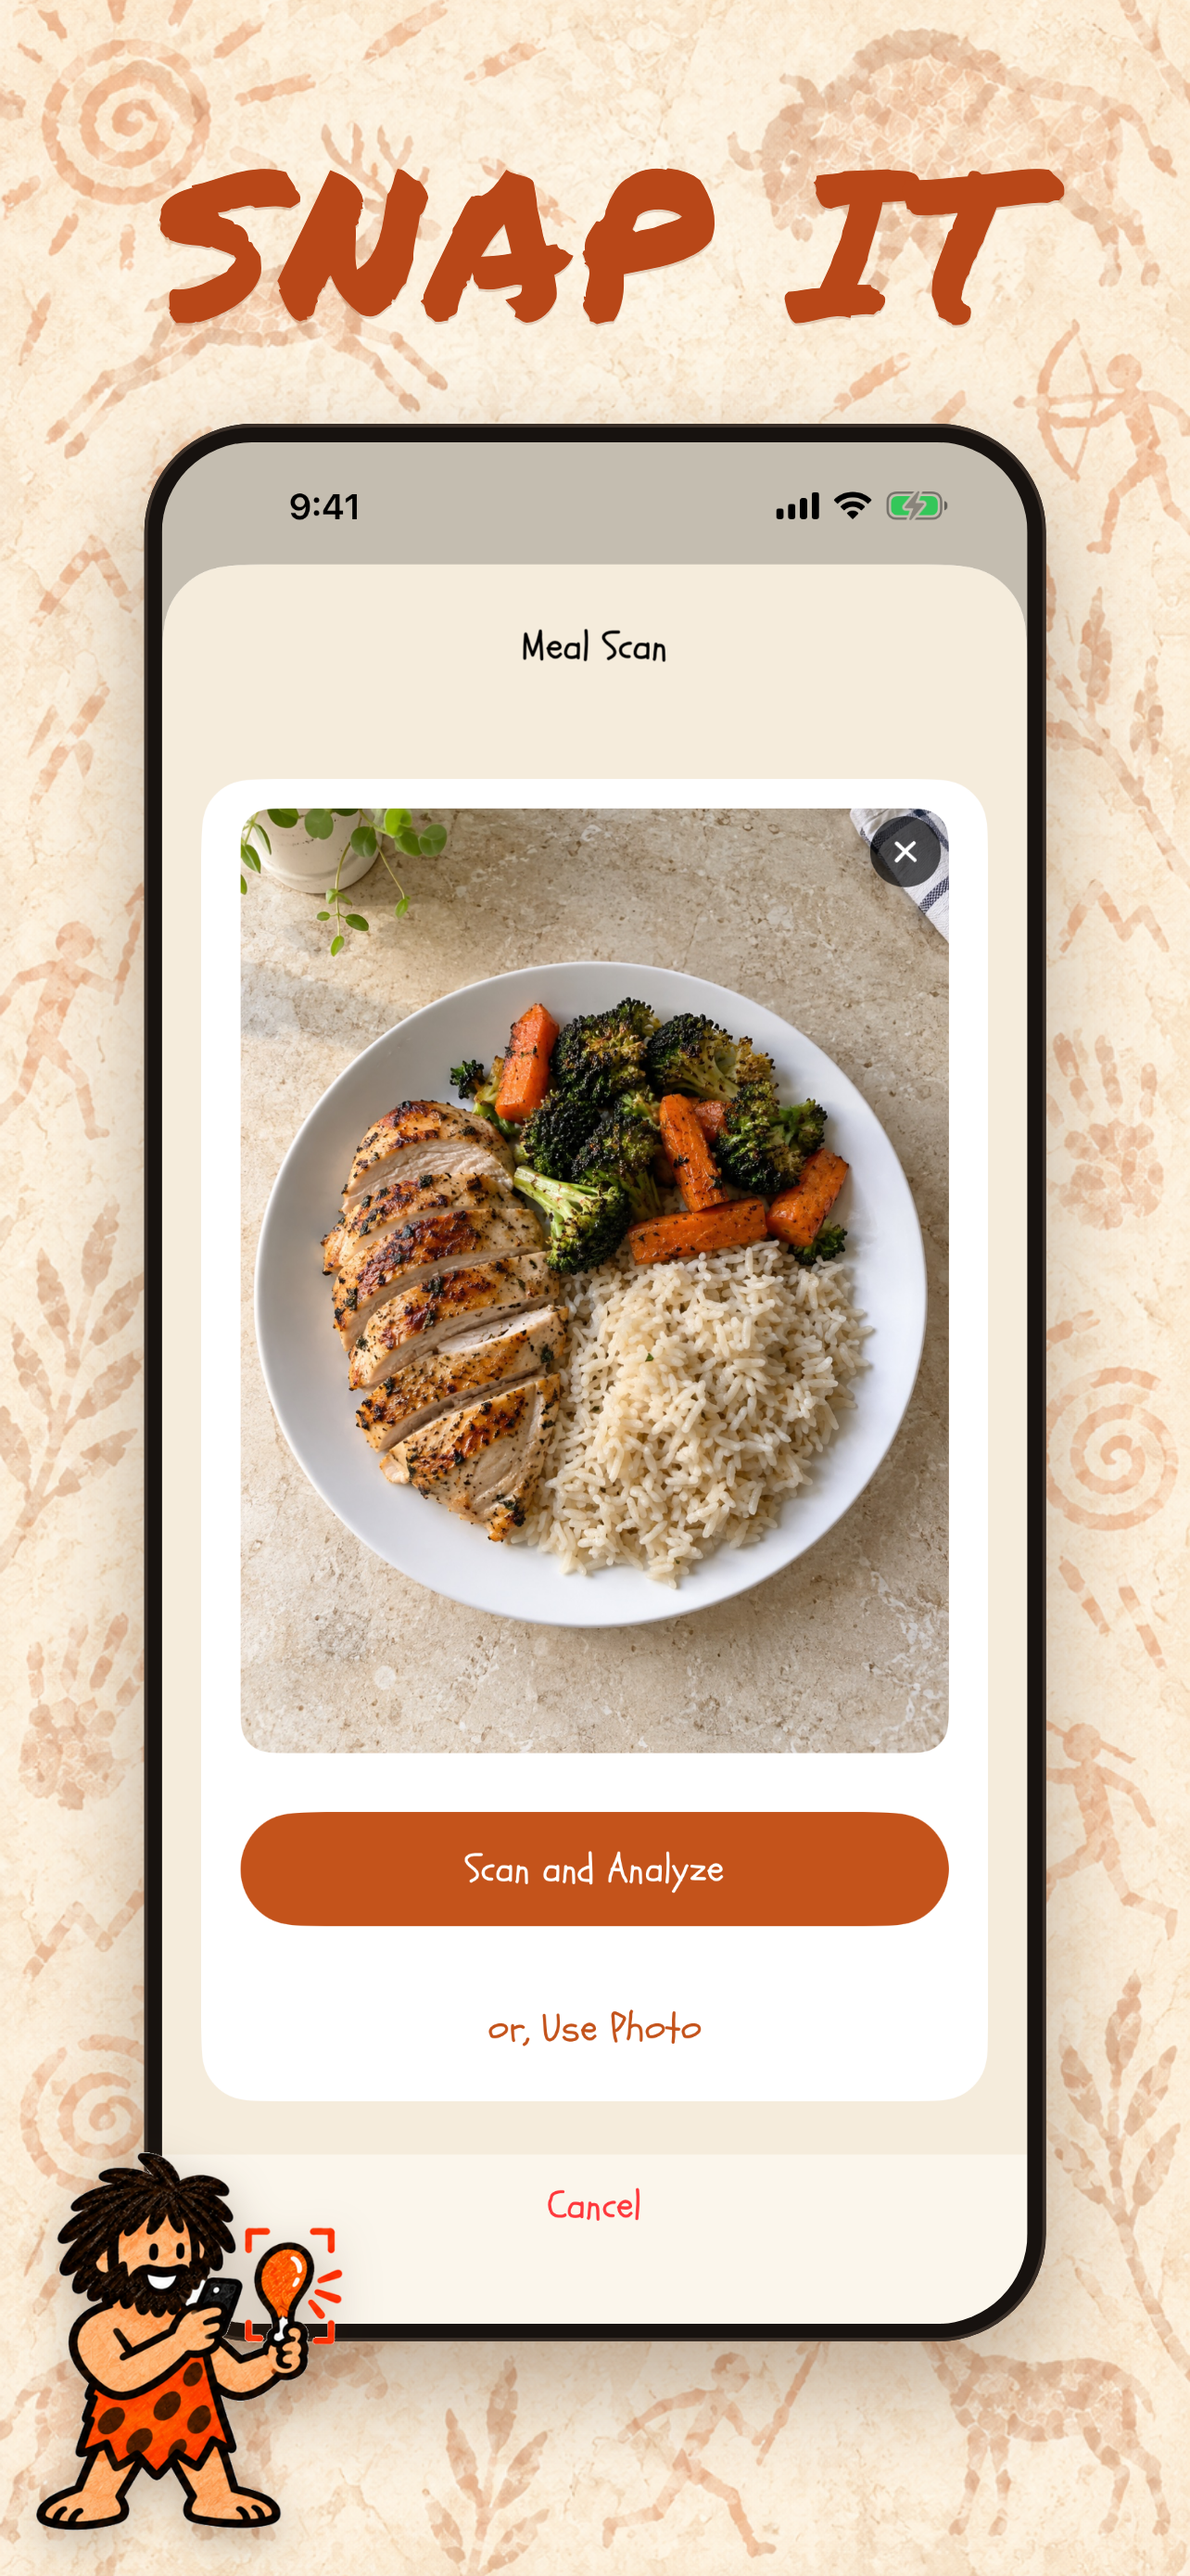
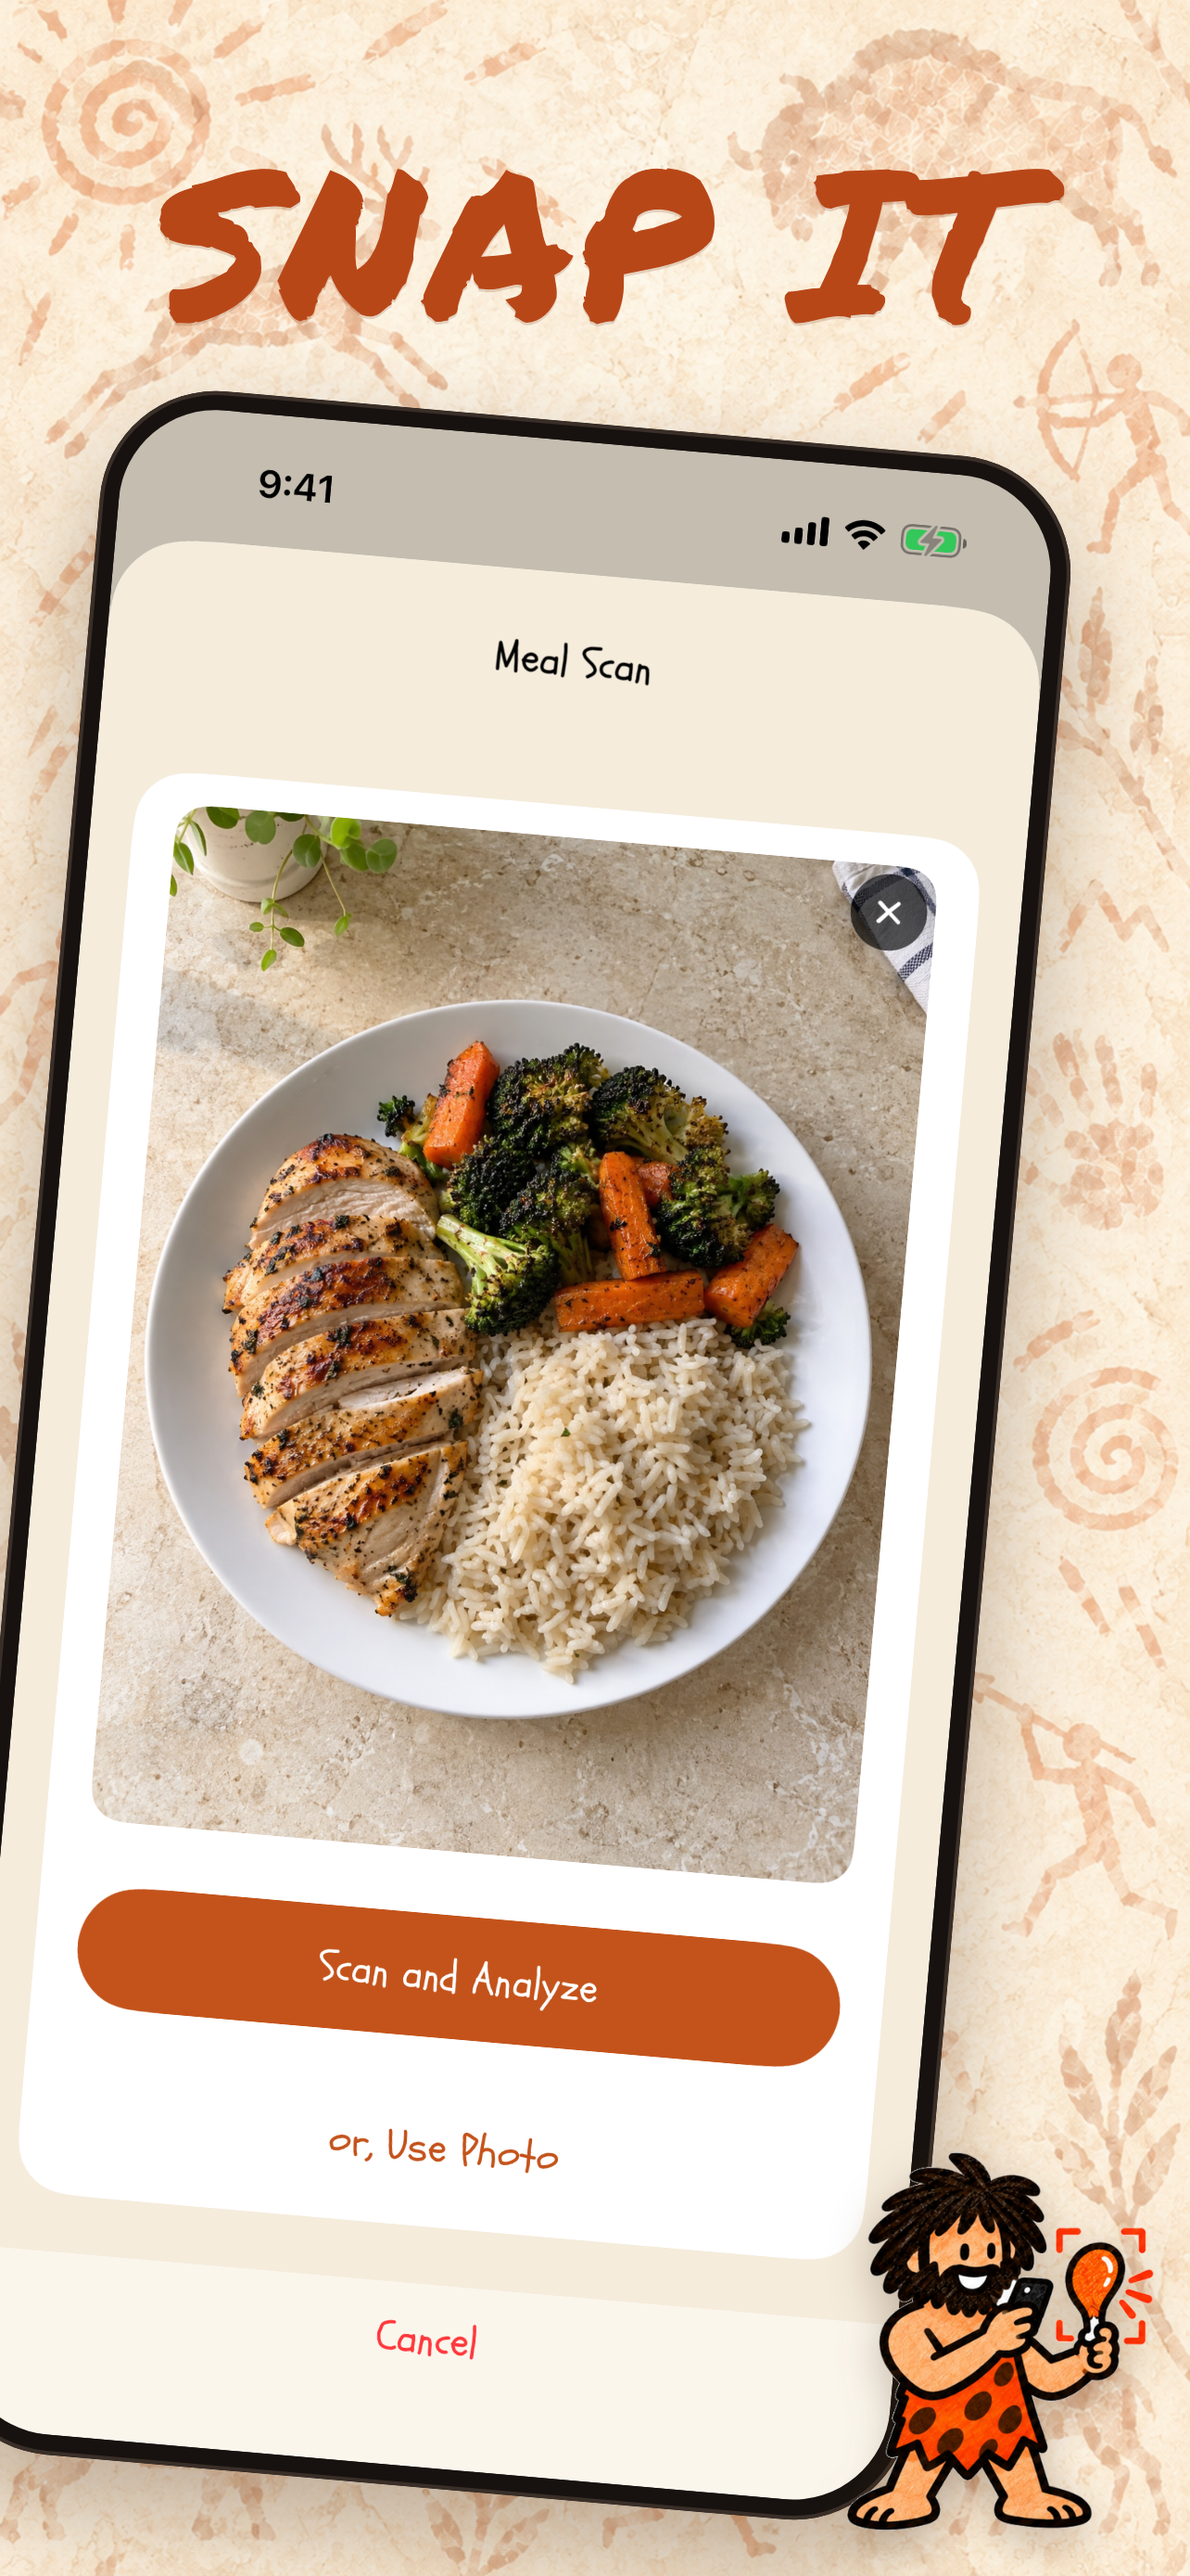
Reorder store screenshots and add a Lose weight, not time opener
New order: Lose weight not time (welcome), Snap, Say, Track, Find, Lose it
(was See it), Team up. Phones now tilt or zoom per slide, and a two-line
headline pushes its phone down.

diff --git a/Marketing/2026-10-growth-playbook/assets/app-store-screenshots/cave/render.py b/Marketing/2026-10-growth-playbook/assets/app-store-screenshots/cave/render.py
@@ -1,6 +1,6 @@
 """Render the cave-wall store screenshots for the App Store (iPhone 6.9" and 6.5") and Google Play (phone).
 
-Every slide uses the same background, headline spot, phone size and mascot spot, so the set reads as one.
+Every slide uses the same background, headline and phone size, so the set reads as one; phones tilt or zoom per slide for variety.
 Run from anywhere: python3 render.py [ios|android]   (both by default)
 Needs Google Chrome. Raw captures: ../raw-1.2/ (iOS) and CaveCalsAndroid/docs/play-store/raw-2026-10/ (Android).
 """
@@ -20,38 +20,45 @@ PLATFORMS = {
                     raw=pathlib.Path("/Users/phil/Documents/GIT/CaveCalsAndroid/docs/play-store/raw-2026-10")),
 }
 
-# (file, headline, raw capture, mascot)
+# (file, headline, raw capture, mascot, phone tilt in degrees, phone zoom)
+# A clockwise tilt swings the phone's bottom left, so its mascot moves to the right.
 SLIDES = [
-    ("01-track-it", "Track it", "home.png", "zog/zog-thumbs-up.png"),
-    ("02-snap-it", "Snap it", "meal-scan.png", "zog/zog-scan-food.png"),
-    ("03-say-it", "Say it", "voice-log.png", "zena/zena-voice-log.png"),
-    ("04-find-it", "Find it", "search.png", "zena/zena-phone-heart.png"),
-    ("05-see-it", "See it", "progress.png", "zog/zog-streak-torch.png"),
-    ("06-team-up", "Team up", "clans.png", "together/together-high-five.png"),
+    ("01-lose-weight", "Lose weight\nnot time", "welcome.png", "zena/zena-salad.png", -4, 1),
+    ("02-snap-it", "Snap it", "meal-scan.png", "zog/zog-scan-food.png", 5, 1.08),
+    ("03-say-it", "Say it", "voice-log.png", "zena/zena-voice-log.png", -3, 1),
+    ("04-track-it", "Track it", "home.png", "zog/zog-thumbs-up.png", 3, 1),
+    ("05-find-it", "Find it", "search.png", "zena/zena-phone-heart.png", 0, 1.16),
+    ("06-lose-it", "Lose it", "progress.png", "zog/zog-streak-torch.png", -4, 1),
+    ("07-team-up", "Team up", "clans.png", "together/together-high-five.png", 4, 1),
 ]
 
 
-def page(w, h, screen, head, shot, mascot):
+def page(w, h, screen, head, shot, mascot, tilt, zoom):
     # Everything is sized from the canvas width so iPhone and Android match; the phone is as large as fits
     # between the headline and the bottom edge.
     u = w / 1320
     top = 470 * u
     phone_w = min(1000 * u, (h - top - 70 * u - 40 * u) / screen + 40 * u)
+    # A two-line headline is set smaller and pushes the same-size phone down (its bottom runs off the edge).
+    lines = head.split("\n")
+    size = 230 if len(lines) == 1 else 150
+    top += (size * len(lines) - 230) * u
     return f"""<!doctype html><html><head><meta charset="utf-8"><style>
 @font-face {{ font-family: Marker; src: url('{(BRAND / "PermanentMarker-Regular.ttf").as_uri()}'); }}
 * {{ box-sizing: border-box; margin: 0; }}
 html, body {{ width: {w}px; height: {h}px; overflow: hidden; }}
 body {{ background: url('{(BRAND / "cave-wall-bg.png").as_uri()}') center / cover; position: relative; }}
 h1 {{ font-family: Marker; font-weight: normal; text-transform: uppercase; color: #B84718; text-align: center;
-     font-size: {230 * u}px; line-height: 1; letter-spacing: {4 * u}px; margin-top: {150 * u}px;
+     font-size: {size * u}px; line-height: 1; letter-spacing: {4 * u}px; margin-top: {150 * u}px;
      text-shadow: 0 {3 * u}px 0 rgba(120, 50, 15, .18); }}
-.phone {{ position: absolute; left: 50%; top: {top}px; transform: translateX(-50%); width: {phone_w}px;
+.phone {{ position: absolute; left: 50%; top: {top}px; width: {phone_w}px; transform-origin: 50% 0;
+         transform: translateX(-50%) rotate({tilt}deg) scale({zoom});
          background: #17120F; border-radius: {120 * u}px; padding: {20 * u}px;
          box-shadow: 0 {50 * u}px {110 * u}px rgba(70, 35, 10, .35), inset 0 0 0 {4 * u}px #3A2F28; }}
 .phone img {{ width: 100%; display: block; border-radius: {100 * u}px; }}
-.mascot {{ position: absolute; left: {20 * u}px; bottom: {30 * u}px; height: {460 * u}px;
+.mascot {{ position: absolute; {"right" if tilt > 0 else "left"}: {20 * u}px; bottom: {30 * u}px; height: {460 * u}px;
           filter: drop-shadow(0 {16 * u}px {24 * u}px rgba(70, 35, 10, .3)); }}
-</style></head><body><h1>{head}</h1>
+</style></head><body><h1>{"<br>".join(lines)}</h1>
 <div class="phone"><img src="{shot.as_uri()}"></div>
 <img class="mascot" src="{(CHAR / mascot).as_uri()}"></body></html>"""
 
@@ -60,13 +67,15 @@ def render(name):
     cfg = PLATFORMS[name]
     w, h = cfg["size"]
     cfg["out"].mkdir(parents=True, exist_ok=True)
-    for file, head, raw, mascot in SLIDES:
+    for old in cfg["out"].glob("*.png"):
+        old.unlink()
+    for file, head, raw, mascot, tilt, zoom in SLIDES:
         shot = cfg["raw"] / raw
         if not shot.exists():
             print("skip", name, file, "(no", raw + ")")
             continue
         html = HERE / f".{name}-{file}.html"
-        html.write_text(page(w, h, cfg["screen"], head, shot, mascot))
+        html.write_text(page(w, h, cfg["screen"], head, shot, mascot, tilt, zoom))
         subprocess.run([CHROME, "--headless=new", "--disable-gpu", "--hide-scrollbars",
                         "--allow-file-access-from-files", "--force-device-scale-factor=1",
                         f"--window-size={w},{h}", f"--screenshot={cfg['out'] / (file + '.png')}",
